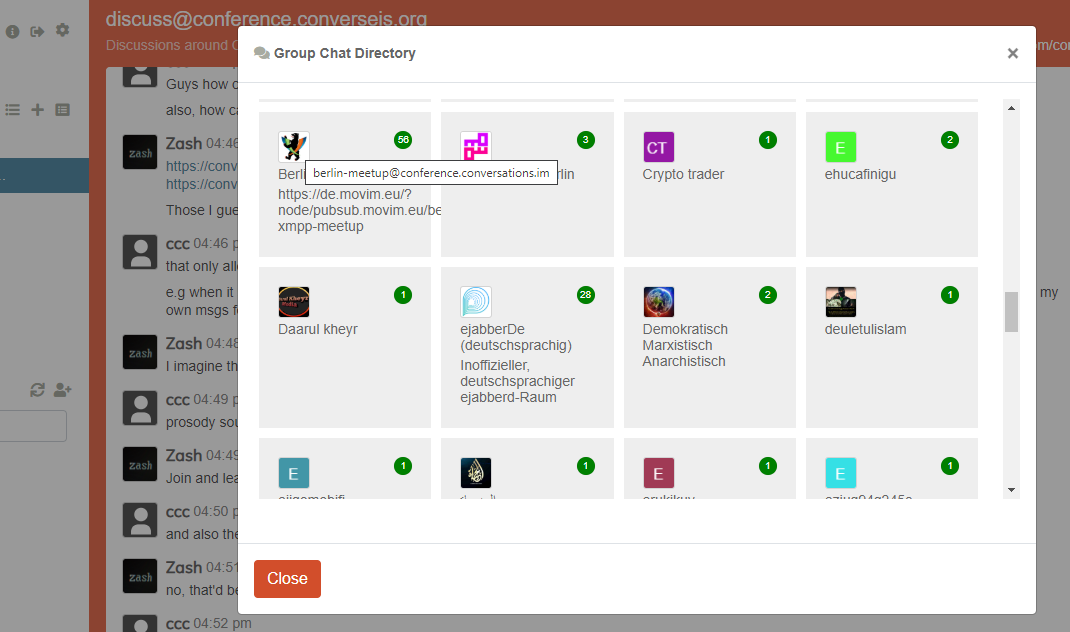
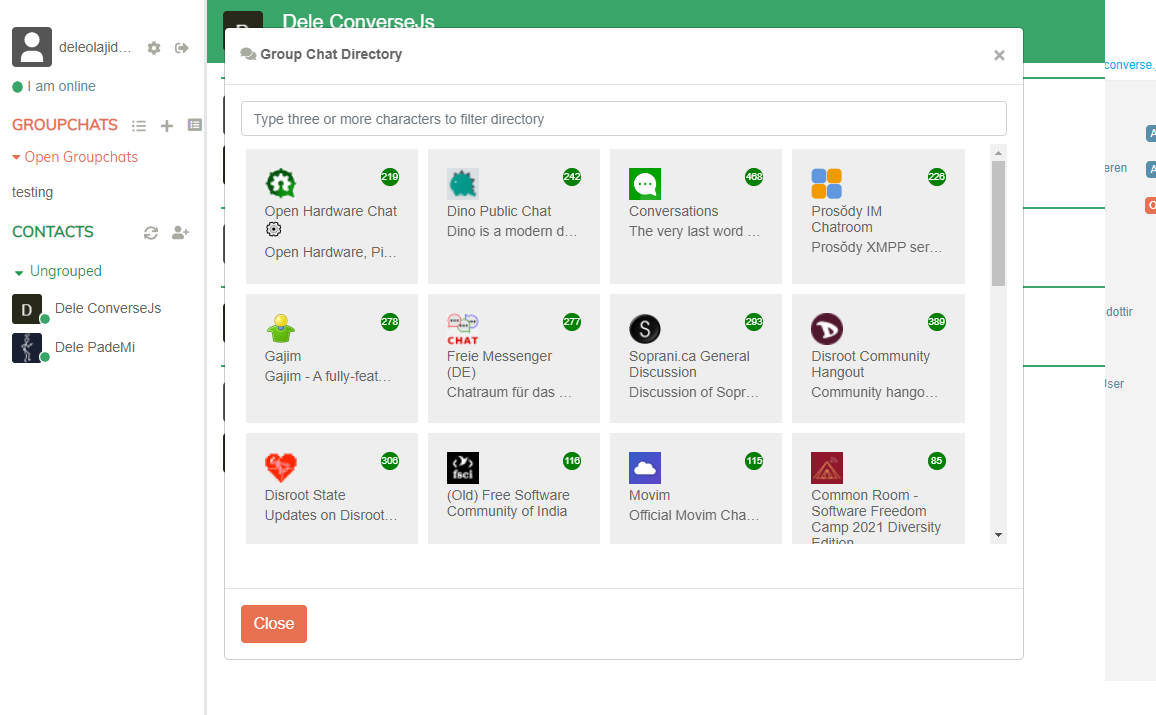
fix #41 - muc-directory: option to use search.jabber.network?

diff --git a/packages/muc-directory/muc-directory.js b/packages/muc-directory/muc-directory.js
@@ -98,7 +98,7 @@
                     if (needMore) this.loadMore();
                 },
 
-                doDirectory() {
+                async doDirectory() {
                     console.debug("doDirectory");
 
                     const directoryResults = this.el.querySelector("#pade-directory-results");
@@ -106,7 +106,14 @@
 
                     if (nextItem == 0)
                     {
+						
                         roomJids = Object.getOwnPropertyNames(mucJids);
+						
+						if (roomJids.length == 0) {
+							await fetchMUCs();
+							roomJids = Object.getOwnPropertyNames(mucJids);
+						}
+						
                         // uncomment this if you want sorted listing
                         //roomJids = roomJids.sort();
 
@@ -125,119 +132,69 @@
                 }
             });
 
-            Promise.all([_converse.api.waitUntil('controlBoxInitialized'), _converse.api.waitUntil('VCardsInitialized'), _converse.api.waitUntil('rosterContactsFetched'), _converse.api.waitUntil('chatBoxesFetched'), _converse.api.waitUntil('roomsPanelRendered'), _converse.api.waitUntil('bookmarksInitialized')]).then(() =>
+            _converse.api.listen.on('chatRoomViewInitialized', function (view)
             {
-                const section = document.body.querySelector('.controlbox-heading--groupchats');	
-
-                if (section)
-                {
-                    const mucButton = newElement('a', null, '<a class="controlbox-heading__btn fa fa-list-alt align-self-center" title="Find Group Chat"></a>');
-                    section.parentNode.appendChild(mucButton);
-
-                    mucButton.addEventListener('click', function(evt)
-                    {
-                        evt.stopPropagation();
-
-                        mucDirectoryDialog = new MUCDirectoryDialog({ 'model': new Model({}) });
-                        mucDirectoryDialog.show();
-
-                    }, false);
-
-                    getChats();
-                }
-            });
+                console.debug("chatRoomViewInitialized", view);
+				extendUI();											
+			});
+			
+            _converse.api.listen.on('chatBoxViewInitialized', function (view)
+            {
+                console.debug("chatBoxViewInitialized", view);
+				extendUI();					
+			});			
 
             console.debug("muc directory plugin is ready");
-        },
-
-        'overrides': {
-            ChatBoxView: {
-
-                parseMessageForCommands: function(text) {
-                    console.debug('directory - parseMessageForCommands', text);
-
-                    const match = text.replace(/^\s*/, "").match(/^\/(.*?)(?: (.*))?$/) || [false, '', ''];
-                    const command = match[1].toLowerCase();
-
-                    if (command === "dir")
-                    {
-                        mucDirectoryDialog = new MUCDirectoryDialog({ 'model': new Model({}) });
-                        mucDirectoryDialog.show();
-                        return true;
-                    }
-                    else
-
-                    return this.__super__.parseMessageForCommands.apply(this, arguments);
-                }
-            }
         }
     });
+	
+	async function fetchMUCs() {
+		let page = 1;
+		
+		while (page < 20) {
+			const response = await fetch('https://search.jabber.network/api/1.0/rooms/unsafe?p=' + page++);
+			const data = await response.json();
+			
+			if (!data.items || data.items.length == 0)  break;
+			console.debug("search.jabber.network", data.items);	
 
-    function getChats()
-    {
-        const domains = {};
-        domains[_converse.connection.domain] = {}; // boostrap with own domain;
+			for (item of data.items) 
+			{							
+				if (item.address && item.address != "null") {
+					mucJids[item.address] = {jid: item.address};	
+				}								
+			}
+		}	
+	}
+	
+	function extendUI() {
+		const section = document.body.querySelector('.controlbox-heading--groupchats');	
 
-        _converse.roster.forEach(function(contact)
-        {
-            //console.debug("muc-directory contact", contact);
+		if (section)
+		{
+			if (!section.parentNode.querySelector('.pade-muc-directory')) {	
+				const mucButton = newElement('a', null, '<a class="controlbox-heading__btn fa fa-list-alt align-self-center" title="Find Group Chat"></a>', 'pade-muc-directory');
+				section.parentNode.appendChild(mucButton);
 
-            const domain = converse.env.Strophe.getDomainFromJid(contact.get("id"));
-            if (domain.indexOf("pade.") == -1) domains[domain] = {};
-        });
+				mucButton.addEventListener('click', function(evt)
+				{
+					evt.stopPropagation();
 
-        console.debug("muc-directory domains", domains);
-        Object.getOwnPropertyNames(domains).forEach(getComponents);
-    }
+					mucDirectoryDialog = new MUCDirectoryDialog({ 'model': new Model({}) });
+					mucDirectoryDialog.show();
 
-    async function getComponents(domain)
-    {
-        console.debug("getComponents", domain);
-        const stanza = await _converse.api.disco.items(domain);
-        console.debug("getComponents", stanza);
-        stanza.querySelectorAll('item').forEach(getComponent);
-    }
-
-    async function getComponent(component)
-    {
-        console.debug("getComponent", component);
-        const jid = component.getAttribute("jid");
-        const name = component.getAttribute("name");
-        let isMuc = false;
-
-        console.debug("getComponent", jid, name);
-        const stanza = await _converse.api.disco.info(jid);
-        console.debug("getComponent", stanza);
-
-        stanza.querySelectorAll('feature').forEach(function(feature)
-        {
-            const type = feature.getAttribute("var");
-            console.debug("getComponent", type);
-            if (type == "http://jabber.org/protocol/muc") isMuc = true;
-        });
-
-        if (isMuc)
-        {
-            const stanza2 = await _converse.api.disco.items(jid);
-            console.debug("getComponent muc rooms", stanza2);
-            stanza2.querySelectorAll('item').forEach(getRoom);
-        }
-    }
-
-    function getRoom(item)
-    {
-        const room = item.getAttribute("jid");
-        console.debug("getRoom", room);
-        mucJids[room] = {jid: room};
-    }
+				}, false);	
+			}				
+		}		
+	}
 
     async function getRoomDetails(room, ele, filter)
     {
-        console.debug("getRoomDetails", room, filter);
+        //console.debug("getRoomDetails", room, filter);
 
         const stanza = await _converse.api.disco.info(room);
 
-        mucJids[room].label = stanza.querySelector('identity').getAttribute("name");
+        mucJids[room].label = stanza.querySelector('identity').getAttribute("name") || room;
         mucJids[room].subject = getValue(stanza.querySelector('field[var="muc#roominfo_subject"] > value'));
         mucJids[room].occupants = getValue(stanza.querySelector('field[var="muc#roominfo_occupants"] > value'));
         mucJids[room].description = getValue(stanza.querySelector('field[var="muc#roominfo_description"] > value'));

diff --git a/packages/muc-directory/muc-directory.css b/packages/muc-directory/muc-directory.css
@@ -21,11 +21,11 @@
 }
 
 .pade-col-desc {
-  /*
-  max-width: 230px;
+ 
+  max-width: 350px;
   white-space: nowrap;
   overflow: hidden;
-  text-overflow: ellipsis; */
+  text-overflow: ellipsis;
 }
 .pade-col-badge {
     position:relative;

diff --git a/packages/muc-directory/readme.md b/packages/muc-directory/readme.md
@@ -3,7 +3,7 @@
 <img src="https://github.com/conversejs/community-plugins/blob/master/packages/muc-directory/muc-directory.png" />
 
 ## Overview
-This plugin scans the contacts roster and does a service discovery on every XMPP domain found. It creates creates a tiled list of all MUC public chat rooms found. Click on any of the tiles to open the selected chat room.
+This plugin fetches from https://search.jabber.network a list of all MUC public chat rooms registered. Click on any of the tiles to open the selected chat room.
 
 ## Install
 see https://m.conversejs.org/docs/html/plugin_development.html on how to install this plugin
